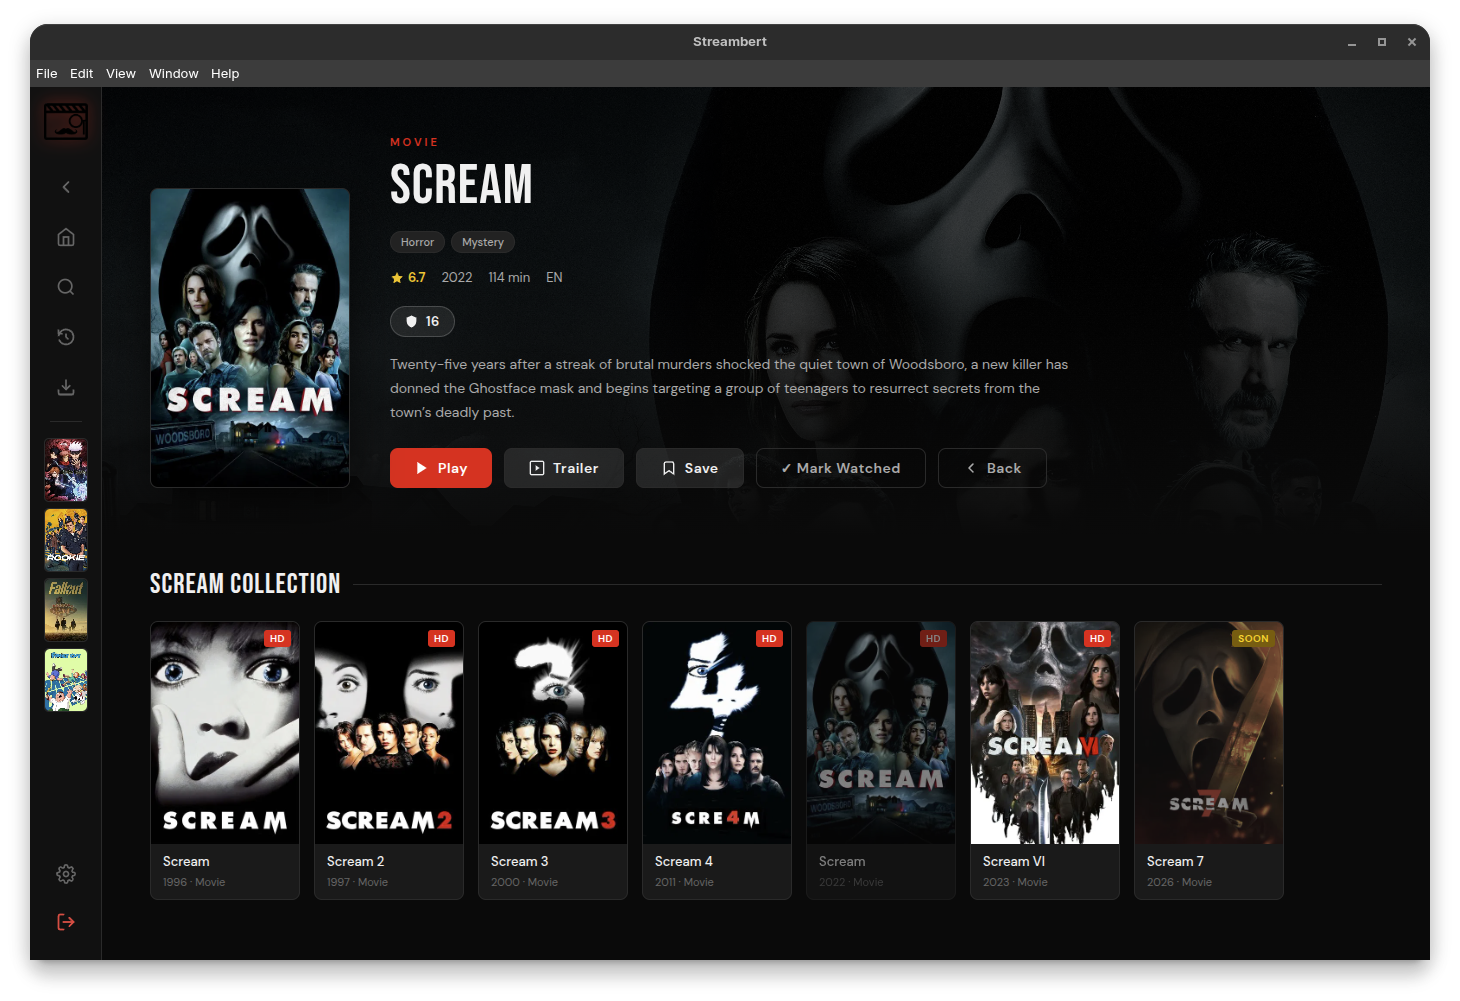
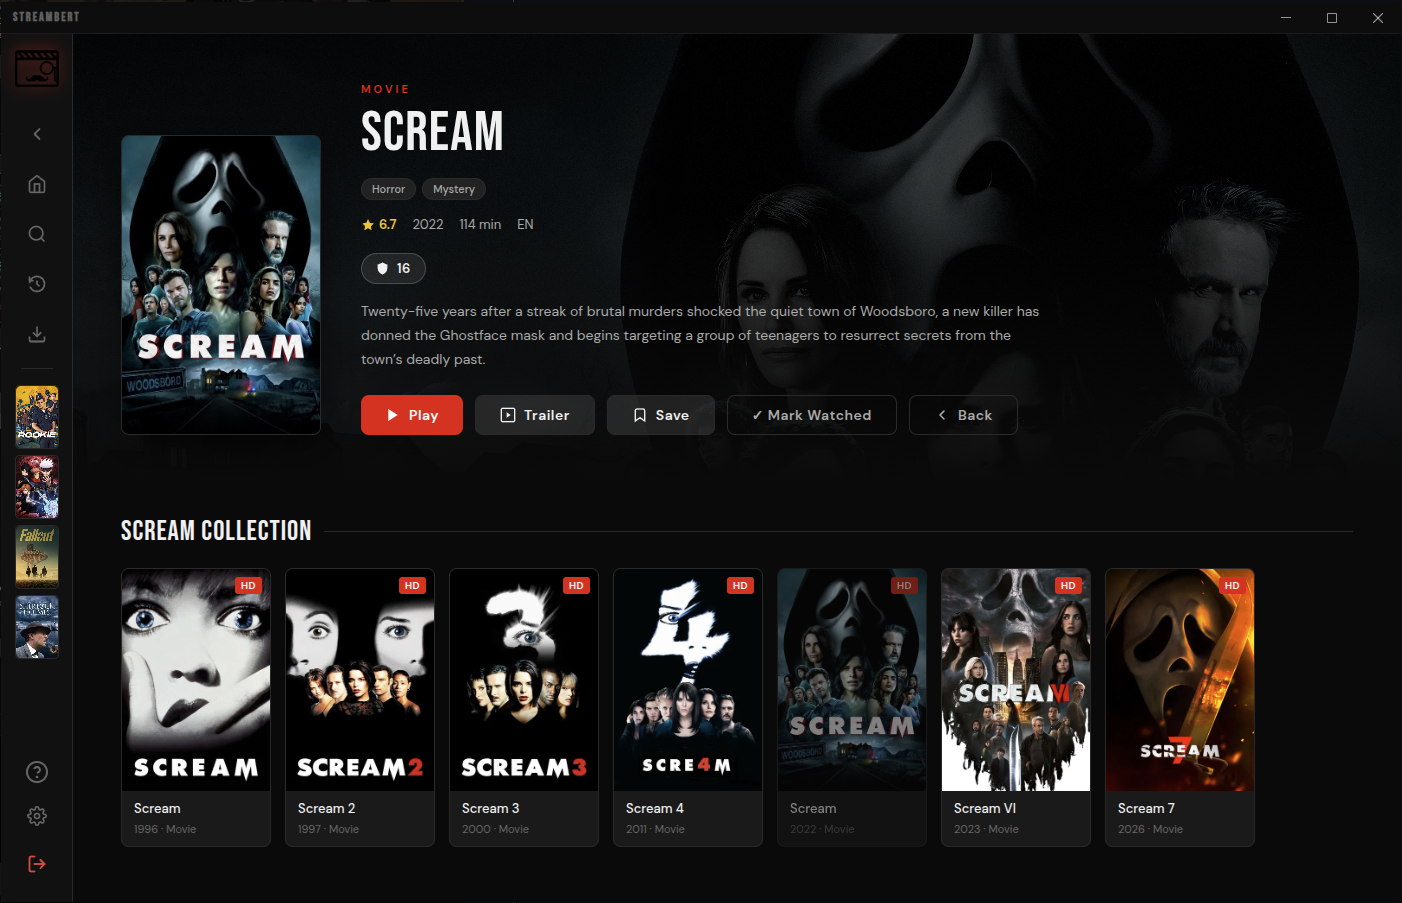
updated screenshots
- updated screenshots and made subtitle error handling more robust

diff --git a/src/ipc/subtitles.js b/src/ipc/subtitles.js
@@ -10,6 +10,15 @@ const http = require("http");
 const os = require("os");
 const zlib = require("zlib");
 
+// ── Robust fetch with timeout (AbortSignal.timeout is unreliable in some Electron versions) ──
+function fetchWithTimeout(url, options = {}, ms = 15000) {
+  const controller = new AbortController();
+  const timer = setTimeout(() => controller.abort(), ms);
+  return fetch(url, { ...options, signal: controller.signal }).finally(() =>
+    clearTimeout(timer),
+  );
+}
+
 // ── ZIP subtitle extractor ────────────────────────────────────────────────────
 
 function extractFirstSubtitleFromZip(buf) {
@@ -109,12 +118,10 @@ function register({ getDownloads, saveDownloads }) {
             params.set("episode_number", String(episode));
           if (languages) params.set("languages", toSubDLLang(languages));
 
-          const res = await fetch(
+          const res = await fetchWithTimeout(
             `https://api.subdl.com/api/v1/subtitles?${params}`,
-            {
-              headers: { "User-Agent": "Streambert v1" },
-              signal: AbortSignal.timeout(12000),
-            },
+            { headers: { "User-Agent": "Streambert" } },
+            12000,
           );
           if (!res.ok) {
             const errText = await res.text().catch(() => "");
@@ -145,7 +152,11 @@ function register({ getDownloads, saveDownloads }) {
             return { ok: false, error: "SubDL: no results" };
           return { ok: true, results, via_subdl: true };
         } catch (e) {
-          return { ok: false, error: e.message };
+          const msg =
+            e.name === "AbortError"
+              ? "SubDL timed out, server may be temporarily unavailable"
+              : e.message;
+          return { ok: false, error: msg };
         }
       }
 
@@ -160,9 +171,11 @@ function register({ getDownloads, saveDownloads }) {
             params.set("season", String(season));
           if (mediaType === "tv" && episode != null)
             params.set("episode", String(episode));
-          const res = await fetch(`https://subs.wyzie.ru/search?${params}`, {
-            signal: AbortSignal.timeout(12000),
-          });
+          const res = await fetchWithTimeout(
+            `https://subs.wyzie.ru/search?${params}`,
+            {},
+            12000,
+          );
           if (!res.ok) return { ok: false, error: `Wyzie error ${res.status}` };
           const data = await res.json();
           const results = (Array.isArray(data) ? data : [])
@@ -207,10 +220,13 @@ function register({ getDownloads, saveDownloads }) {
             return { ok: false, error: "Wyzie: no results" };
           return { ok: true, results, via_wyzie: true };
         } catch (e) {
-          return { ok: false, error: e.message };
+          const msg =
+            e.name === "AbortError"
+              ? "Subtitle service timed out, it may be temporarily down. Try adding a free SubDL API key in Settings for reliable results."
+              : e.message;
+          return { ok: false, error: msg };
         }
       }
-
       const errors = [];
       if (subdlApiKey) {
         const r = await searchSubDL();
@@ -220,10 +236,12 @@ function register({ getDownloads, saveDownloads }) {
       const r = await searchWyzie();
       if (r.ok) return r;
       errors.push(r.error);
+      const allTimedOut = errors.every((e) => e && e.includes("timed out"));
       return {
         ok: false,
-        error:
-          errors.length > 0
+        error: allTimedOut
+          ? "Subtitle service timed out, it may be temporarily down. Add a free SubDL API key in Settings for reliable results."
+          : errors.length > 0
             ? errors.join(" · ")
             : "No subtitles found. Try a different language or add a SubDL API key in Settings.",
       };
@@ -237,10 +255,11 @@ function register({ getDownloads, saveDownloads }) {
         const parts = String(fileId).split("_");
         const subdlPath = decodeURIComponent(parts.slice(2).join("_"));
         const downloadUrl = `https://dl.subdl.com${subdlPath}`;
-        const res = await fetch(downloadUrl, {
-          headers: { "User-Agent": "Streambert v1" },
-          signal: AbortSignal.timeout(30000),
-        });
+        const res = await fetchWithTimeout(
+          downloadUrl,
+          { headers: { "User-Agent": "Streambert" } },
+          30000,
+        );
         if (!res.ok)
           return { ok: false, error: `SubDL download error ${res.status}` };
         const zipBuffer = Buffer.from(await res.arrayBuffer());
@@ -303,10 +322,11 @@ function register({ getDownloads, saveDownloads }) {
             if (String(sub.file_id).startsWith("subdl_")) {
               const parts = String(sub.file_id).split("_");
               const subdlPath = decodeURIComponent(parts.slice(2).join("_"));
-              const res = await fetch(`https://dl.subdl.com${subdlPath}`, {
-                headers: { "User-Agent": "Streambert v1" },
-                signal: AbortSignal.timeout(30000),
-              });
+              const res = await fetchWithTimeout(
+                `https://dl.subdl.com${subdlPath}`,
+                { headers: { "User-Agent": "Streambert" } },
+                30000,
+              );
               if (!res.ok) continue;
               const zipBuf = Buffer.from(await res.arrayBuffer());
               const extracted = extractFirstSubtitleFromZip(zipBuf);
@@ -322,9 +342,7 @@ function register({ getDownloads, saveDownloads }) {
                     )
                   : null);
               if (!url) continue;
-              const res = await fetch(url, {
-                signal: AbortSignal.timeout(30000),
-              });
+              const res = await fetchWithTimeout(url, {}, 30000);
               if (!res.ok) continue;
               fileData = Buffer.from(await res.arrayBuffer());
               const urlExt = url.split("?")[0].split(".").pop().toLowerCase();

diff --git a/src/pages/DownloadsPage.jsx b/src/pages/DownloadsPage.jsx
@@ -782,10 +782,10 @@ function SubtitleDownloaderModal({
   onSubtitleDeleted,
 }) {
   const defaultLang = storage.get(STORAGE_KEYS.SUBTITLE_LANG) || "en";
-  const [subdlApiKey, setSubdlApiKey] = useState("");
+  const [subdlApiKey, setSubdlApiKey] = useState(null); // null = not yet loaded
   useEffect(() => {
     secureStorage.get(STORAGE_KEYS.SUBDL_API_KEY).then((val) => {
-      if (val) setSubdlApiKey(val);
+      setSubdlApiKey(val || "");
     });
   }, []);
 
@@ -835,8 +835,10 @@ function SubtitleDownloaderModal({
   );
 
   useEffect(() => {
+    // Wait until subdlApiKey has been loaded from secure storage before searching
+    if (subdlApiKey === null) return;
     doSearch(langFilter);
-  }, []);
+  }, [subdlApiKey]);
 
   const handleDownload = async () => {
     if (!selectedSubs.length || !dl.filePath) return;
